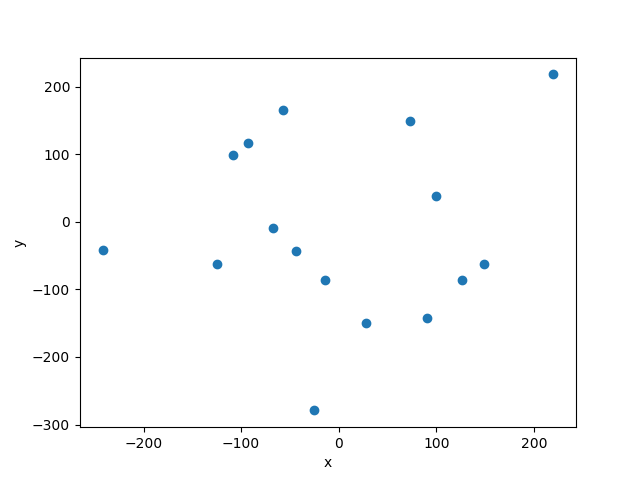
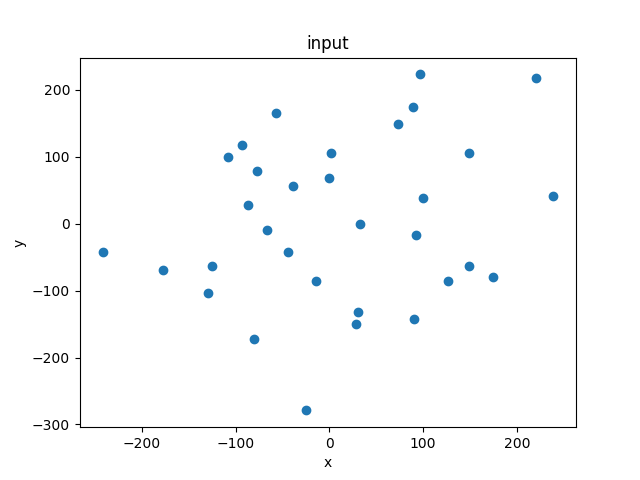
WIP

diff --git a/closest_pair.py b/closest_pair.py
@@ -27,14 +27,12 @@ def merge_by_y(left, right):
     return merged
 
 
+# euclidean distance calculation
 def distance(p1, p2):
-    """
-    :return: euclidean distance
-    """
     return np.math.sqrt((p1[0] - p2[0]) ** 2 + (p1[1] - p2[1]) ** 2)
 
 
-# Brute force method to calculate distance for n<=3
+# Brute force method to calculate distance
 def _brute_closest_pair_finder(X):
     min_dist = distance(X[0], X[1])
     p1 = X[0]
@@ -52,25 +50,35 @@ def _brute_closest_pair_finder(X):
     return p1, p2, min_dist
 
 
-def _boundary_merge(X, distances, xm):
+def _boundary_merge(X, distances, point_pairs, xm):
     """
-    Finds the closed distance between merged from several parts points
-    :param X: merged by y points
-    :param dist_l:
-    :param xm: median
-    :return:
+    Finds the closed pair in a point set merged from 2 parts of recursion
+    :param X: points merged and sorted by y (axis = 1)
+    :param distances: smallest distances found of in left and right parts of the input
+    :param point_pairs: pairs of points which correspond to distances
+    :param xm: median by x (axis = 0)
+    :return: pair of closest points and distance between them
     """
-    # d is minimum distance so far
-    d = min(distances)
-    print(X)
-    M_ind = np.where(X[:,0]>= (xm-d) & X[:,0] <= (xm+d))
+
+    min_d = min(distances)  # min_d is minimum distance so far
+    M_ind = np.where(
+        (X[:, 0] >= (xm - min_d)) & (X[:, 0] <= (xm + min_d)))  # pair_with_min_d = point_pairs[distances.index(d)]
     M = X[M_ind]
+    p1, p2, d_M = _brute_closest_pair_finder(M)  # d_M is minimum distance found on boundary
+    if d_M not in distances:
+        distances.append(d_M)
+        point_pairs.append((p1, p2))
+        print("Point pairs after boundary merge\n", point_pairs)
+    else:
+        print("The minimum distance is not on boundary.")
 
-    #d_M is minimum distance found on boundary
-    d_M = _brute_closest_pair_finder(M)
-    return min(d, d_M)
+    min_d = min(distances)
+    pair_with_min_d = point_pairs[distances.index(min_d)]
+    print("Min distance on this step\n", min_d)
+    print("Pair with min distance on this step\n", pair_with_min_d)
+    return pair_with_min_d[0], pair_with_min_d[1], min_d
 
-
+# generate a process number which will be index in dictionary
 def generate_process_number(process_id):
     return int(hash(process_id) % 1e8)
 
@@ -80,71 +88,74 @@ def sort_by_y(points):
     return points[ind]
 
 
-def work(points, return_dict):
-    if len(points) <= 4:
+def closest_pair(points, return_dict=None, verbose=False):
+    if len(points) <= MIN_SIZE_OF_ARRAY_PER_THREAD:
         print(multiprocessing.current_process())
         n = generate_process_number(multiprocessing.current_process())
         return_dict[n] = (sort_by_y(points), _brute_closest_pair_finder(points))
     else:
         x_median = medianSearch(points[:, 0])
-        # print("median ", x_median)
         left = points[np.where(points[:, 0] < x_median)]
         right = points[np.where(points[:, 0] >= x_median)]
         jobs = []
+        manager = multiprocessing.Manager()
+        return_dict_input = manager.dict()
         for data in [left, right]:
-            jobs.append(multiprocessing.Process(target=work, args=(data, return_dict)))
-        # print(multiprocessing.current_process(), return_dict.values(), "\n\n")
-        for job in jobs: job.start()
+            jobs.append(multiprocessing.Process(target=closest_pair, args=(data, return_dict_input)))
+        for job in jobs:
+            job.start()
+        if verbose:
+            print(multiprocessing.current_process())
         for job in jobs: job.join()
         for job in jobs: job.terminate()
-        results = return_dict.values()
+        results = return_dict_input.values()
         res_len = len(results)
-        merged = np.empty(shape=[len(points), 2])
-        for i in range(0, res_len//2+1, 2):
-            # merging points by y
-            new_row = np.array(merge_by_y(results[i][0], results[i+1][0]))
-            merged = np.append(merged, new_row)
-        # merged = [item for sublist in merged for item in sublist]
-        print(merged.shape)
+        merged = np.array(merge_by_y(results[0][0], results[1][0]))
         distances = [results[i][1][2] for i in range(res_len)]
-        d = _boundary_merge(merged, distances, x_median)
+        point_pairs = [(results[i][1][0], results[i][1][1]) for i in range(res_len)]
+        if verbose:
+            print("\nResult of 2 parallel task execution")
+            print("Current shape of merged points", merged.shape)
+            print("Min distances found by each of tasks\n", distances)
+            print("Point pairs after  merge of tasks\n", point_pairs)
+        res_boundary_merge = _boundary_merge(merged, distances, point_pairs, x_median)
+        n = generate_process_number(multiprocessing.current_process())
+        if return_dict is None: return_dict = manager.dict()
+        return_dict[n] = (merged, res_boundary_merge)
 
+        return res_boundary_merge
 
-        return merged, d
-
-
-def closest_pair(points, max_workers):
-    min_length = len(points) // max_workers
-    manager = multiprocessing.Manager()
-    return_dict = manager.dict()
-    res = work(points, return_dict)
-    print(res)
-
-
+# calculates median value in a list
 def medianSearch(list):
     return np.median(list)
 
-
+# write integer data to csv file
 def write_to_file(data, file_name):
-    np.savetxt(file_name + ".csv", data, delimiter=",")
+    np.savetxt(file_name + ".csv", data, fmt='%d', delimiter=",")
 
-
-def plot_points(data, file_name, show=False):
+# creating scatterplot of a 2d dataset
+def plot_points(data, plot_name, show=False):
     plt.scatter(data[:, 0], data[:, 1])
     plt.xlabel("x")
     plt.ylabel("y")
-    plt.savefig(file_name + ".png")
+    plt.title(plot_name)
+    plt.savefig(plot_name + ".png")
     if show:
         plt.show()
 
 
+def min_size_of_array(full_input_len):
+    return full_input_len / NUM_WORKERS
+
+
+NUM_WORKERS = 4
+ARRAY_SIZE = 2 ** 5
+MIN_SIZE_OF_ARRAY_PER_THREAD = ARRAY_SIZE / NUM_WORKERS
+
 if __name__ == "__main__":
     np.random.seed(123)
-    max_workers = 4
-    size = 2 ** 4
-    gen_data_margin = size
-    input = np.random.randn(size, 2) * 100
-    int_input = input.astype(int)
-    write_to_file(int_input, "input")
-    plot_points(int_input, "input")
-    res = closest_pair(int_input, max_workers)
+    input_points = (np.random.randn(ARRAY_SIZE, 2) * 100).astype(int)
+    write_to_file(input_points, "input")
+    plot_points(input_points, "input", True)
+    result = closest_pair(input_points, verbose=True)
+    print("\n\nRESULT: \nThe closed pair:{0} and {1}\nDistance: {2:.5f}".format(result[0], result[1], result[2]))
